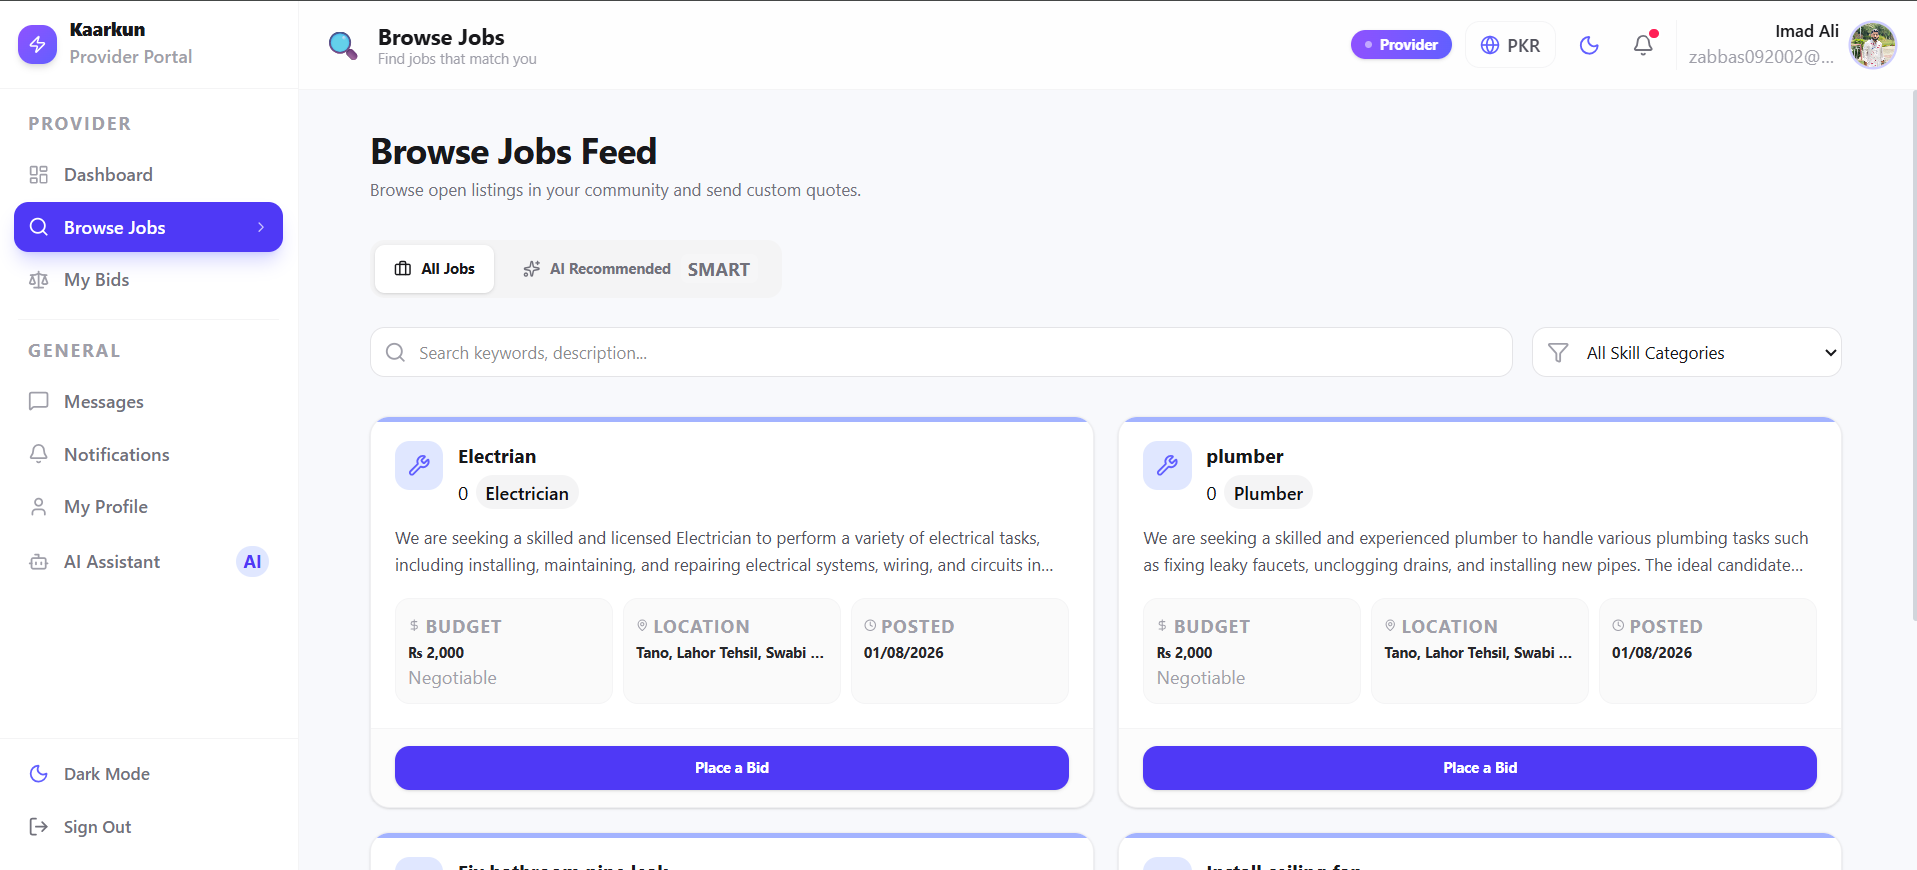
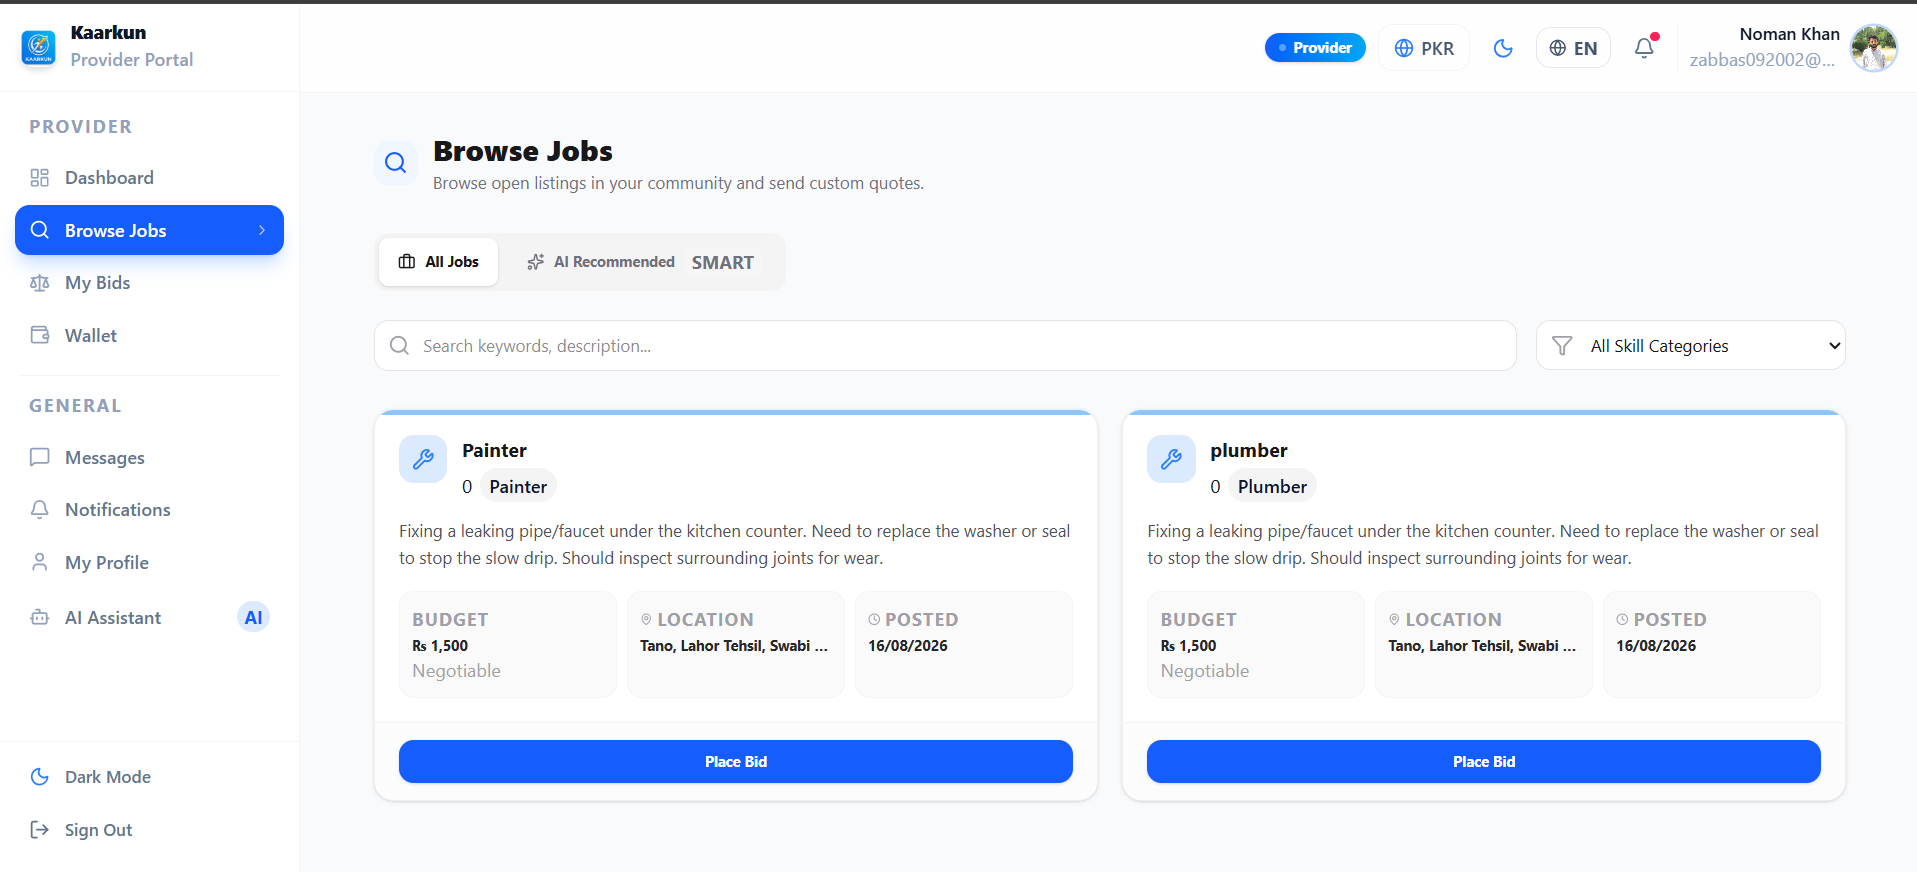
fix the wallet and browse job page issues

diff --git a/mobile/lib/features/provider/screens/browse_jobs_screen.dart b/mobile/lib/features/provider/screens/browse_jobs_screen.dart
@@ -330,54 +330,92 @@ class _BrowseJobsScreenState extends State<BrowseJobsScreen> {
 
   void _showSortPicker(LanguageProvider lang) {
     final colors = Theme.of(context).appColors;
-    // keys → display labels
+    final isDark = Theme.of(context).brightness == Brightness.dark;
     final options = [
       {'key': 'AI Recommended', 'label': lang.t('provider.browseJobs.aiRecommended')},
-      {'key': 'Most Recent', 'label': lang.t('provider.browseJobs.mostRecent')},
+      {'key': 'Most Recent',    'label': lang.t('provider.browseJobs.mostRecent')},
       {'key': 'Highest Budget', 'label': lang.t('provider.browseJobs.highestBudget')},
-      {'key': 'Lowest Budget', 'label': lang.t('provider.browseJobs.lowestBudget')},
+      {'key': 'Lowest Budget',  'label': lang.t('provider.browseJobs.lowestBudget')},
     ];
-    showModalBottomSheet(
+    showDialog(
       context: context,
-      backgroundColor: colors.surface,
-      shape: const RoundedRectangleBorder(borderRadius: BorderRadius.vertical(top: Radius.circular(28))),
-      builder: (context) {
-        return SingleChildScrollView(
-          padding: const EdgeInsets.all(28),
+      barrierColor: Colors.black54,
+      builder: (ctx) => Dialog(
+        backgroundColor: Colors.transparent,
+        insetPadding: const EdgeInsets.symmetric(horizontal: 28, vertical: 40),
+        child: Container(
+          decoration: BoxDecoration(
+            color: isDark ? const Color(0xFF1A1A2E) : Colors.white,
+            borderRadius: BorderRadius.circular(28),
+          ),
+          padding: const EdgeInsets.fromLTRB(24, 24, 24, 16),
           child: Column(
             mainAxisSize: MainAxisSize.min,
+            crossAxisAlignment: CrossAxisAlignment.start,
             children: [
-              Container(
-                width: 44,
-                height: 4,
-                decoration: BoxDecoration(color: colors.border, borderRadius: BorderRadius.circular(2)),
-              ),
-              const SizedBox(height: 24),
-              Text(
-                lang.t('provider.browseJobs.sortBy'),
-                style: GoogleFonts.outfit(fontSize: 18, fontWeight: FontWeight.bold, color: colors.text),
-              ),
-              const SizedBox(height: 16),
-              ...options.map((opt) => ListTile(
-                title: Text(
-                  opt['label']!,
-                  style: GoogleFonts.outfit(
-                    color: selectedSort == opt['key'] ? AppTheme.primaryColor : colors.text,
-                    fontWeight: selectedSort == opt['key'] ? FontWeight.bold : FontWeight.normal,
+              // Header
+              Row(
+                children: [
+                  Expanded(
+                    child: Text(
+                      lang.t('provider.browseJobs.sortBy'),
+                      style: GoogleFonts.outfit(fontSize: 18, fontWeight: FontWeight.bold, color: colors.text),
+                    ),
                   ),
-                ),
-                trailing: selectedSort == opt['key'] ? const Icon(Icons.check, color: AppTheme.primaryColor) : null,
-                onTap: () {
-                  setState(() => selectedSort = opt['key']!);
-                  Navigator.pop(context);
-                  _onSearchChanged(_searchController.text);
-                },
-              )),
+                  GestureDetector(
+                    onTap: () => Navigator.pop(ctx),
+                    child: Container(
+                      padding: const EdgeInsets.all(6),
+                      decoration: BoxDecoration(color: colors.surface, borderRadius: BorderRadius.circular(10)),
+                      child: Icon(Icons.close, size: 18, color: colors.subtext),
+                    ),
+                  ),
+                ],
+              ),
               const SizedBox(height: 16),
+              Divider(color: colors.border, height: 1),
+              ...options.map((opt) {
+                final isSelected = selectedSort == opt['key'];
+                return InkWell(
+                  borderRadius: BorderRadius.circular(14),
+                  onTap: () {
+                    setState(() => selectedSort = opt['key']!);
+                    Navigator.pop(ctx);
+                    _onSearchChanged(_searchController.text);
+                  },
+                  child: Padding(
+                    padding: const EdgeInsets.symmetric(vertical: 14, horizontal: 4),
+                    child: Row(
+                      children: [
+                        Expanded(
+                          child: Text(
+                            opt['label']!,
+                            style: GoogleFonts.outfit(
+                              fontSize: 15,
+                              color: isSelected ? AppTheme.primaryColor : colors.text,
+                              fontWeight: isSelected ? FontWeight.bold : FontWeight.w500,
+                            ),
+                          ),
+                        ),
+                        if (isSelected)
+                          Container(
+                            padding: const EdgeInsets.all(4),
+                            decoration: BoxDecoration(
+                              color: AppTheme.primaryColor.withOpacity(0.1),
+                              shape: BoxShape.circle,
+                            ),
+                            child: const Icon(Icons.check, color: AppTheme.primaryColor, size: 14),
+                          ),
+                      ],
+                    ),
+                  ),
+                );
+              }),
+              const SizedBox(height: 8),
             ],
           ),
-        );
-      },
+        ),
+      ),
     );
   }
 
@@ -410,61 +448,158 @@ class _BrowseJobsScreenState extends State<BrowseJobsScreen> {
 
   void _showCategoryPicker(LanguageProvider lang) {
     final colors = Theme.of(context).appColors;
-    showModalBottomSheet(
+    final isDark = Theme.of(context).brightness == Brightness.dark;
+    final categories = context.read<CategoryService>().categories;
+    showDialog(
       context: context,
-      backgroundColor: colors.surface,
-      shape: const RoundedRectangleBorder(borderRadius: BorderRadius.vertical(top: Radius.circular(28))),
-      builder: (context) {
-        final categories = context.read<CategoryService>().categories;
-        return Container(
-          constraints: BoxConstraints(maxHeight: MediaQuery.of(context).size.height * 0.6),
-          child: SingleChildScrollView(
-            padding: const EdgeInsets.all(28),
-            child: Column(
-              mainAxisSize: MainAxisSize.min,
-              children: [
-                Container(
-                  width: 44,
-                  height: 4,
-                  decoration: BoxDecoration(color: colors.border, borderRadius: BorderRadius.circular(2)),
-                ),
-                const SizedBox(height: 24),
-                Text(
-                  lang.t('provider.browseJobs.selectCategory'),
-                  style: GoogleFonts.outfit(fontSize: 18, fontWeight: FontWeight.bold, color: colors.text),
-                ),
-                const SizedBox(height: 16),
-                ListTile(
-                  leading: const Icon(Icons.grid_view, color: AppTheme.primaryColor),
-                  title: Text(
-                    lang.t('provider.browseJobs.allCategories'),
-                    style: GoogleFonts.outfit(fontWeight: FontWeight.w600, color: colors.text),
-                  ),
-                  onTap: () {
-                    setState(() => selectedCategory = 'All Categories');
-                    context.read<JobService>().fetchJobs(filters: {'status': 'open'});
-                    Navigator.pop(context);
-                  },
-                ),
-                Divider(color: colors.border),
-                ...categories.map((cat) => ListTile(
-                  leading: const Icon(Icons.category_outlined, color: AppTheme.primaryColor),
-                  title: Text(cat['name'] as String, style: GoogleFonts.outfit(fontWeight: FontWeight.w500, color: colors.text)),
-                  onTap: () {
-                    setState(() => selectedCategory = cat['name'] as String);
-                    context.read<JobService>().fetchJobs(filters: {
-                      'category_id': cat['id'],
-                      'status': 'open',
-                    });
-                    Navigator.pop(context);
-                  },
-                )),
-                const SizedBox(height: 16),
-              ],
-            ),
+      barrierColor: Colors.black54,
+      builder: (ctx) => Dialog(
+        backgroundColor: Colors.transparent,
+        insetPadding: const EdgeInsets.symmetric(horizontal: 28, vertical: 40),
+        child: Container(
+          constraints: BoxConstraints(
+            maxHeight: MediaQuery.of(context).size.height * 0.65,
           ),
-        );
-      },
+          decoration: BoxDecoration(
+            color: isDark ? const Color(0xFF1A1A2E) : Colors.white,
+            borderRadius: BorderRadius.circular(28),
+          ),
+          padding: const EdgeInsets.fromLTRB(24, 24, 24, 16),
+          child: Column(
+            mainAxisSize: MainAxisSize.min,
+            crossAxisAlignment: CrossAxisAlignment.start,
+            children: [
+              // Header
+              Row(
+                children: [
+                  Expanded(
+                    child: Text(
+                      lang.t('provider.browseJobs.selectCategory'),
+                      style: GoogleFonts.outfit(fontSize: 18, fontWeight: FontWeight.bold, color: colors.text),
+                    ),
+                  ),
+                  GestureDetector(
+                    onTap: () => Navigator.pop(ctx),
+                    child: Container(
+                      padding: const EdgeInsets.all(6),
+                      decoration: BoxDecoration(color: colors.surface, borderRadius: BorderRadius.circular(10)),
+                      child: Icon(Icons.close, size: 18, color: colors.subtext),
+                    ),
+                  ),
+                ],
+              ),
+              const SizedBox(height: 16),
+              Divider(color: colors.border, height: 1),
+              // Scrollable list
+              Flexible(
+                child: SingleChildScrollView(
+                  child: Column(
+                    mainAxisSize: MainAxisSize.min,
+                    children: [
+                      // "All Categories" row
+                      InkWell(
+                        borderRadius: BorderRadius.circular(14),
+                        onTap: () {
+                          setState(() => selectedCategory = 'All Categories');
+                          context.read<JobService>().fetchJobs(filters: {'status': 'open'});
+                          Navigator.pop(ctx);
+                        },
+                        child: Padding(
+                          padding: const EdgeInsets.symmetric(vertical: 14, horizontal: 4),
+                          child: Row(
+                            children: [
+                              Container(
+                                padding: const EdgeInsets.all(8),
+                                decoration: BoxDecoration(
+                                  color: AppTheme.primaryColor.withOpacity(0.1),
+                                  borderRadius: BorderRadius.circular(10),
+                                ),
+                                child: const Icon(Icons.grid_view_rounded, color: AppTheme.primaryColor, size: 18),
+                              ),
+                              const SizedBox(width: 14),
+                              Expanded(
+                                child: Text(
+                                  lang.t('provider.browseJobs.allCategories'),
+                                  style: GoogleFonts.outfit(
+                                    fontSize: 15,
+                                    fontWeight: selectedCategory == 'All Categories' ? FontWeight.bold : FontWeight.w500,
+                                    color: selectedCategory == 'All Categories' ? AppTheme.primaryColor : colors.text,
+                                  ),
+                                ),
+                              ),
+                              if (selectedCategory == 'All Categories')
+                                Container(
+                                  padding: const EdgeInsets.all(4),
+                                  decoration: BoxDecoration(
+                                    color: AppTheme.primaryColor.withOpacity(0.1),
+                                    shape: BoxShape.circle,
+                                  ),
+                                  child: const Icon(Icons.check, color: AppTheme.primaryColor, size: 14),
+                                ),
+                            ],
+                          ),
+                        ),
+                      ),
+                      Divider(color: colors.border, height: 1),
+                      ...categories.map((cat) {
+                        final isSelected = selectedCategory == cat['name'];
+                        return InkWell(
+                          borderRadius: BorderRadius.circular(14),
+                          onTap: () {
+                            setState(() => selectedCategory = cat['name'] as String);
+                            context.read<JobService>().fetchJobs(filters: {
+                              'category_id': cat['id'],
+                              'status': 'open',
+                            });
+                            Navigator.pop(ctx);
+                          },
+                          child: Padding(
+                            padding: const EdgeInsets.symmetric(vertical: 14, horizontal: 4),
+                            child: Row(
+                              children: [
+                                Container(
+                                  padding: const EdgeInsets.all(8),
+                                  decoration: BoxDecoration(
+                                    color: colors.surface,
+                                    borderRadius: BorderRadius.circular(10),
+                                    border: Border.all(color: colors.border),
+                                  ),
+                                  child: Icon(Icons.category_outlined, color: isSelected ? AppTheme.primaryColor : colors.subtext, size: 18),
+                                ),
+                                const SizedBox(width: 14),
+                                Expanded(
+                                  child: Text(
+                                    cat['name'] as String,
+                                    style: GoogleFonts.outfit(
+                                      fontSize: 15,
+                                      fontWeight: isSelected ? FontWeight.bold : FontWeight.w500,
+                                      color: isSelected ? AppTheme.primaryColor : colors.text,
+                                    ),
+                                  ),
+                                ),
+                                if (isSelected)
+                                  Container(
+                                    padding: const EdgeInsets.all(4),
+                                    decoration: BoxDecoration(
+                                      color: AppTheme.primaryColor.withOpacity(0.1),
+                                      shape: BoxShape.circle,
+                                    ),
+                                    child: const Icon(Icons.check, color: AppTheme.primaryColor, size: 14),
+                                  ),
+                              ],
+                            ),
+                          ),
+                        );
+                      }),
+                      const SizedBox(height: 8),
+                    ],
+                  ),
+                ),
+              ),
+            ],
+          ),
+        ),
+      ),
     );
   }
 

diff --git a/mobile/lib/features/wallet/wallet_screen.dart b/mobile/lib/features/wallet/wallet_screen.dart
@@ -4,6 +4,7 @@ import 'package:provider/provider.dart';
 import 'package:google_fonts/google_fonts.dart';
 import '../../core/providers/language_provider.dart';
 import '../../core/theme.dart';
+import '../auth/auth_service.dart';
 import 'wallet_service.dart';
 
 class WalletScreen extends StatefulWidget {
@@ -55,6 +56,7 @@ class _WalletScreenState extends State<WalletScreen> {
     final lang = context.watch<LanguageProvider>();
     final colors = Theme.of(context).appColors;
     final isDark = Theme.of(context).brightness == Brightness.dark;
+    final isProvider = context.watch<AuthService>().role == 'provider';
 
     return Scaffold(
       backgroundColor: colors.background,
@@ -97,7 +99,7 @@ class _WalletScreenState extends State<WalletScreen> {
                 const SizedBox(height: 8),
 
                 // ── Balance card ──
-                _buildBalanceCard(ws, lang, colors, isDark),
+                _buildBalanceCard(ws, lang, colors, isDark, isProvider: isProvider),
 
                 const SizedBox(height: 24),
 
@@ -155,7 +157,7 @@ class _WalletScreenState extends State<WalletScreen> {
     );
   }
 
-  Widget _buildBalanceCard(WalletService ws, LanguageProvider lang, AppColors colors, bool isDark) {
+  Widget _buildBalanceCard(WalletService ws, LanguageProvider lang, AppColors colors, bool isDark, {required bool isProvider}) {
     return Container(
       decoration: BoxDecoration(
         gradient: const LinearGradient(
@@ -227,8 +229,10 @@ class _WalletScreenState extends State<WalletScreen> {
           const SizedBox(height: 20),
           Row(
             children: [
-              _cardButton(Icons.add_rounded, lang.t('wallet.topUp'), _showTopUpSheet),
-              const SizedBox(width: 12),
+              if (!isProvider) ...[
+                _cardButton(Icons.add_rounded, lang.t('wallet.topUp'), _showTopUpSheet),
+                const SizedBox(width: 12),
+              ],
               _cardButton(Icons.remove_rounded, lang.t('wallet.withdraw'),
                   ws.balance >= 500 ? _showWithdrawSheet : null),
             ],
